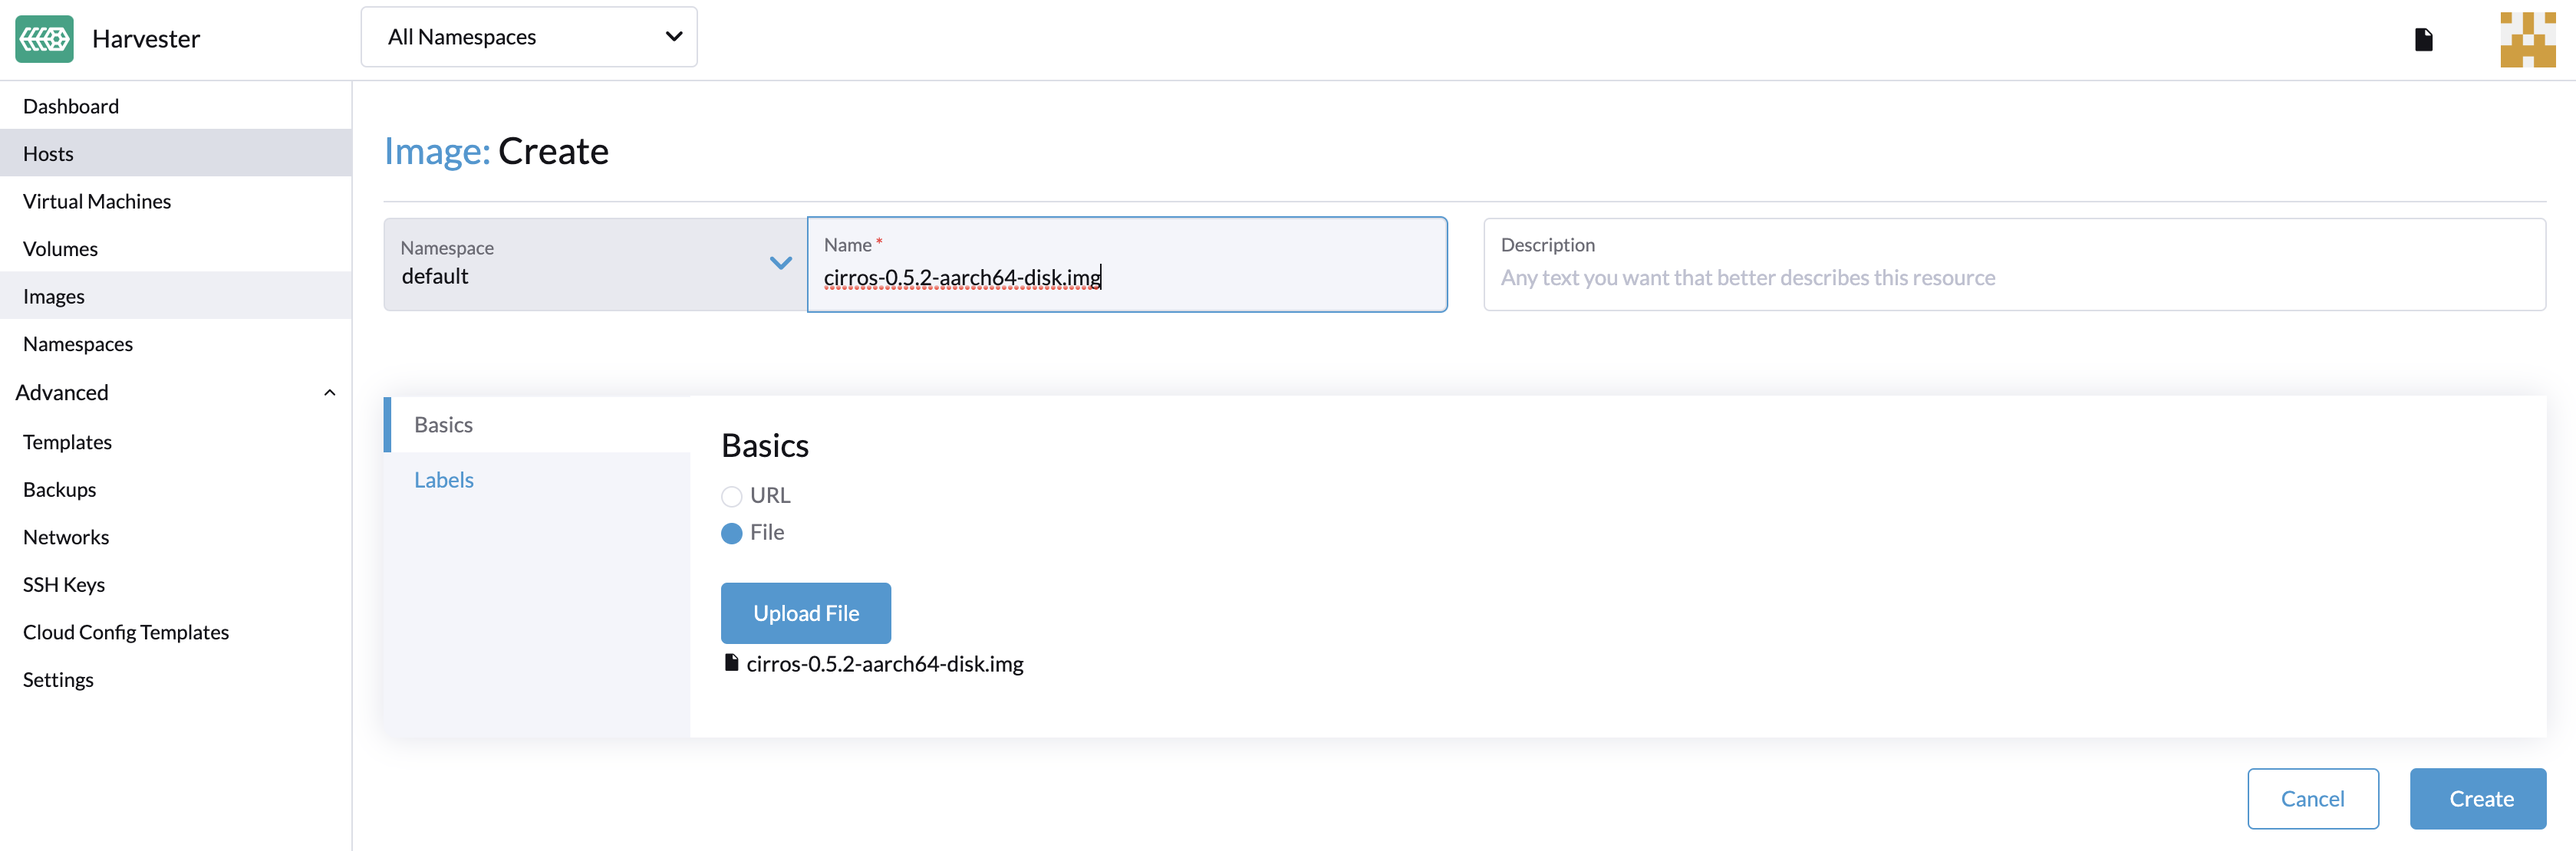
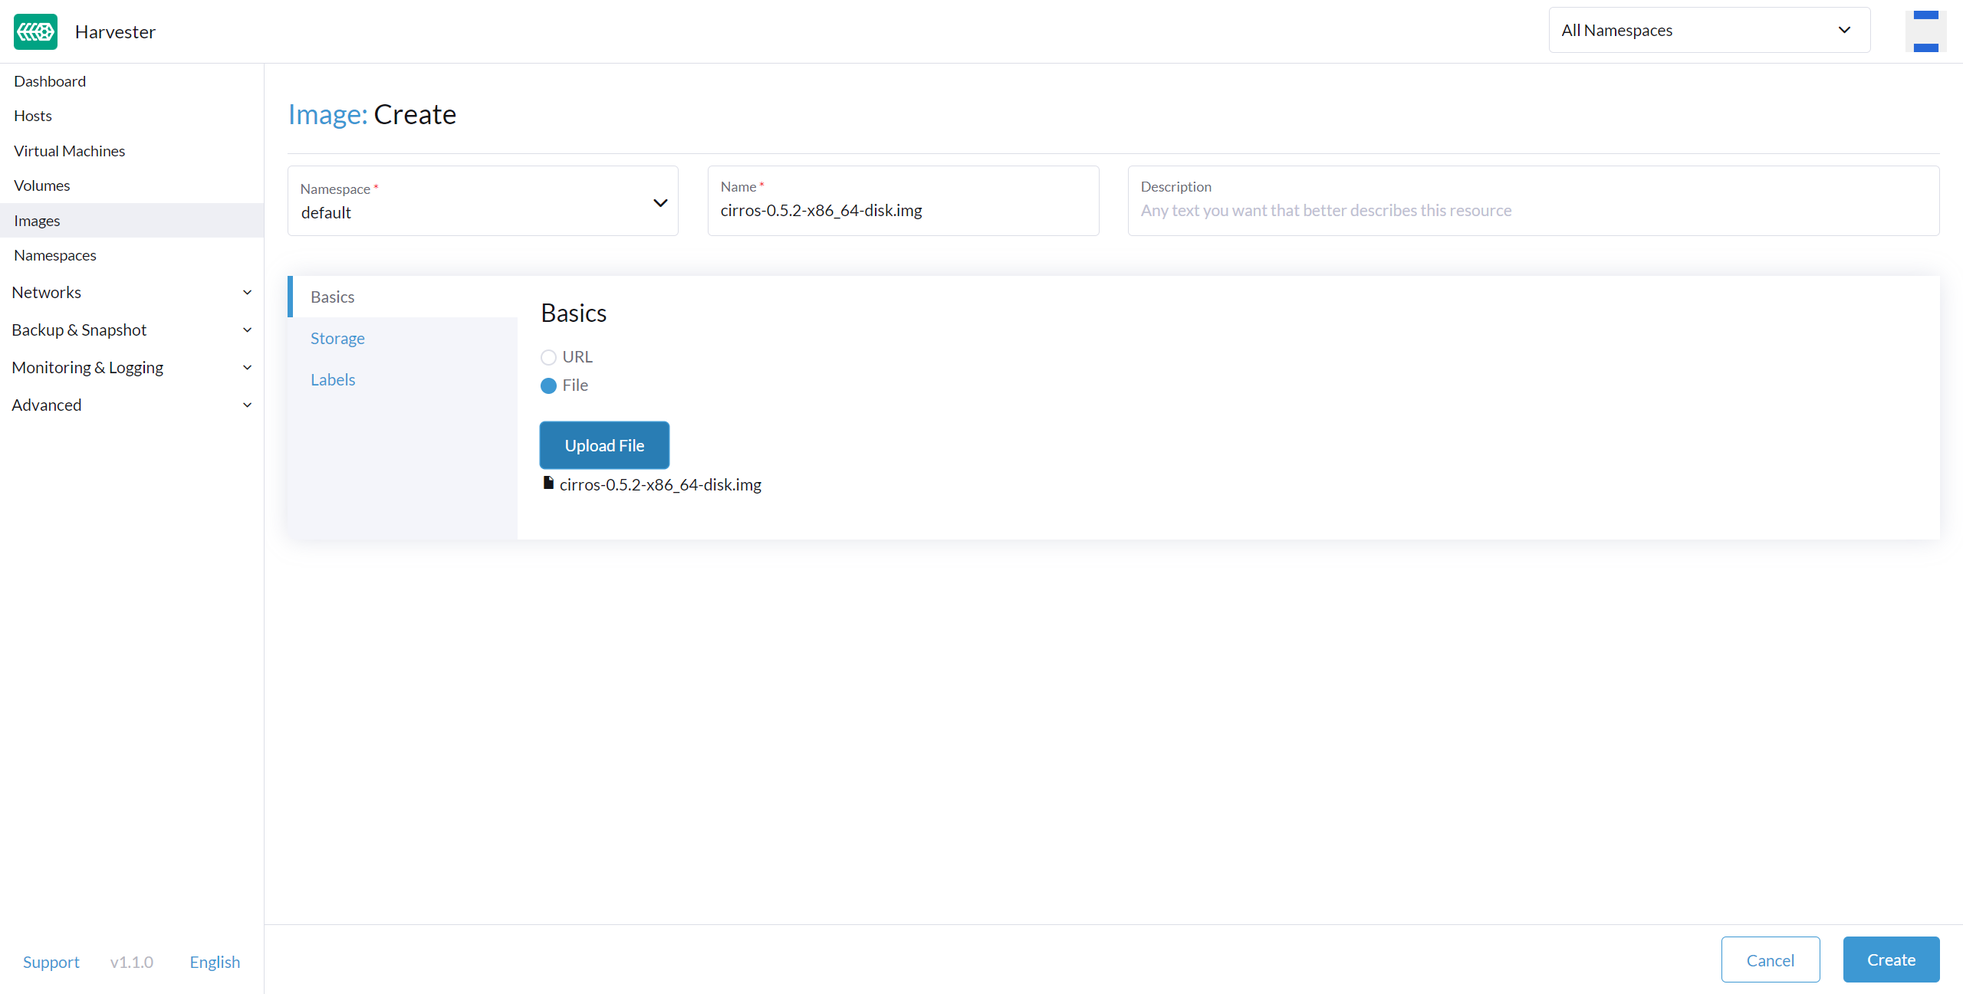
Support storage tiering

diff --git a/docs/vm/create-windows-vm.md b/docs/vm/create-windows-vm.md
@@ -58,18 +58,21 @@ The `bootOrder` values need to be set with the installation image first. If you 
 
 1. The **first volume** is an `Image Volume` with the following values: 
     1. `Name`: The value `cdrom-disk` is set by default. You can keep it or change it.
-    2. `Image`: Select the Windows image to be installed. See [Upload Images](../upload-image.md) for the full description on how to create new images.
-    3. `Type`: Select `cd-rom`.
+    2. `Type`: Select `cd-rom`.
+    3. `Image`: Select the Windows image to be installed. See [Upload Images](../upload-image.md) for the full description on how to create new images.
     4. `Size`: The value `20` is set by default. You can change it if your image has a bigger size.
     5. `Bus`: The value `SATA` is set by default. It's recommended you don't change it.
 2. The **second volume** is a `Volume` with the following values:
-    1.  `Name`: The value `rootdisk` is set by default. You can keep it or change it.
-    2.  `Size`: The value `32` is set by default. See the disk space requirements for [Windows Server](https://docs.microsoft.com/en-us/windows-server/get-started/hardware-requirements#storage-controller-and-disk-space-requirements) and [Windows 11](https://docs.microsoft.com/en-us/windows/whats-new/windows-11-requirements#hardware-requirements) before changing this value.
-    3.  `Bus`: The value `VirtIO` is set by default. You can keep it or change it to the other available options, `SATA` or `SCSI`.
+    1. `Name`: The value `rootdisk` is set by default. You can keep it or change it.
+    2. `Type`: Select `disk`.
+    3. `Storage Class`: You can use the default StorageClass `harvester-longhorn` or specify a custom one.
+    4. `Size`: The value `32` is set by default. See the disk space requirements for [Windows Server](https://docs.microsoft.com/en-us/windows-server/get-started/hardware-requirements#storage-controller-and-disk-space-requirements) and [Windows 11](https://docs.microsoft.com/en-us/windows/whats-new/windows-11-requirements#hardware-requirements) before changing this value.
+    5. `Bus`: The value `VirtIO` is set by default. You can keep it or change it to the other available options, `SATA` or `SCSI`.
 3. The **third volume** is a `Container` with the following values:
     1. `Name`: The value `virtio-container-disk` is set by default. You can keep it or change it.
-    2. `Docker Image`: The value `registry.suse.com/suse/vmdp/vmdp:2.5.3` is set by default. It's recommended you don't change it.
-    3. `Bus`: The value `SATA` is set by default. It's recommended you don't change it.
+    2. `Type`: Select `cd-rom`.
+    3. `Docker Image`: The value `registry.suse.com/suse/vmdp/vmdp:2.5.3` is set by default. It's recommended you don't change it.
+    4. `Bus`: The value `SATA` is set by default. It's recommended you don't change it.
 4. You can add additional disks using the buttons `Add Volume`, `Add Existing Volume`, `Add VM Image`, or `Add Container`.
 
 ![create-windows-vm-volumes](/img/v1.1/vm/create-windows-vm-volumes.png)
@@ -78,8 +81,8 @@ The `bootOrder` values need to be set with the installation image first. If you 
 
 1. The **Management Network** is added by default with the following values: 
     1. `Name`:  The value `default` is set by default. You can keep it or change it.
-    2. `Network`: The value `management Network` is set by default. You can't change this option if no other network has been created. See [Harvester Network](../networking/harvester-network.md) for the full description on how to create new networks.
-    3. `Model`: The value `e1000` is set by default. You can keep it or change it to the other available options from the dropdown.
+    2. `Model`: The value `e1000` is set by default. You can keep it or change it to the other available options from the dropdown.
+    3. `Network`: The value `management Network` is set by default. You can't change this option if no other network has been created. See [Harvester Network](../networking/harvester-network.md) for the full description on how to create new networks.
     4. `Type`: The value `masquerade` is set by default. You can keep it or change it to the other available option, `bridge`.
 2. You can add additional networks by clicking  `Add Network`.
 
@@ -176,11 +179,9 @@ Alternately if the system has already booted into the UEFI shell, you can type i
 
 There is a known issue with Windows VM when it is allocated more than 8GiB without enough reserve memory configured. The VM crashes without warning.
 
-This can be fixed by allocating at least 256MiB of reserved memory to the template on the Advanced Options tab.
+This can be fixed by allocating at least 256MiB of reserved memory to the template on the Advanced Options tab. If `256MiB` doesn't work, try `512MiB`.
 
 ![reserved-memory-config](/img/v1.1/vm/reserved-memory-config.png)
-
-We will add a default 256MiB of reserved memory to the Windows template to prevent this problem in the future release.
 
 ### BSoD (Blue Screen of Death) at first boot time of Windows
 

diff --git a/docs/advanced/storageclass.md b/docs/advanced/storageclass.md
@@ -1,0 +1,73 @@
+---
+sidebar_position: 1
+sidebar_label: Storage Class
+title: ""
+---
+
+# Storage Class
+
+A StorageClass allows administrators to describe the **classes** of storage they offer. Different Longhorn StorageClasses might map to replica policies, or to node schedule policies, or disk schedule policies determined by the cluster administrators. This concept is sometimes called **profiles** in other storage systems.
+
+## Creating a Storage Class
+You can create one or more StorageClasses from the **Advanced > Storage Classes** page.
+
+:::note
+
+After a StorageClass is created, nothing can be changed except `Description`.
+
+:::
+
+### Header Section
+1. **Name**: name of the StorageClass
+1. **Description** (optional): description of the StorageClass
+
+### Parameters Tab
+
+#### Number of Replicas
+
+The number of replicas created for each volume in Longhorn. Defaults to `3`.
+
+#### Stale Replica Timeout
+
+Determines when Longhorn would clean up an error replica after the replica's status is ERROR. The unit is minute. Defaults to `30` minutes in Harvester.
+
+#### Node Selector (Optional)
+
+Select the node tags to be matched in the volume scheduling stage. You can add node tags by going to **Host > Edit Config**.
+
+#### Disk Selector (Optional)
+
+Select the disk tags to be matched in the volume scheduling stage. You can add disk tags by going to **Host > Edit Config**.
+
+#### Migratable
+
+Whether [Live Migration](../vm/live-migration.md) is supported. Defaults to `Yes`.
+
+### Customize Tab
+
+#### Reclaim Policy
+
+Volumes dynamically created by a StorageClass will have the reclaim policy specified in the `reclaimPolicy` field of the class. The `Delete` mode is used by default.
+
+1. `Delete`: Deletes volumes and the underlying devices when the volume claim is deleted.
+2. `Retain`: Retains the volume for manual cleanup.
+
+#### Allow Volume Expansion
+
+Volumes can be configured to be expandable. This feature is `Enabled` by default, which allows users to resize the volume by editing the corresponding PVC object.
+
+:::note
+
+You can only use the volume expansion feature to grow a Volume, not to shrink it.
+
+:::
+
+#### Volume Binding Mode
+
+The `volumeBindingMode` field controls when volume binding and dynamic provisioning should occur. The `Immediate` mode is used by default.
+
+1. `Immediate`: Binds and provisions a persistent volume once the PersistentVolumeClaim is created.
+2. `WaitForFirstConsumer`: Binds and provisions a persistent volume once a VM using the PersistentVolumeClaim is created.
+
+
+

diff --git a/docs/host/host.md b/docs/host/host.md
@@ -55,13 +55,15 @@ Once resolved, the last step can be skipped.
 
 ![delete.png](/img/v1.1/host/delete.png)
 
-## Multi-disk Management - `Tech Preview`
+## Multi-disk Management
+
+### Add Additional Disks
 
 Users can view and add multiple disks as additional data volumes from the host detail page.
 
 1. Go to the **Hosts** page.
 2. On the node you want to modify, click **⋮ > Edit Config**.
-2. Select the **Disks** tab and click **Add Disks**.
+2. Select the **Storage** tab and click **Add Disk**.
 3. Select an additional raw block device to add as an additional data volume.
     - The `Force Formatted` option is required if the block device has never been force-formatted.
 
@@ -80,6 +82,29 @@ If you are testing Harvester in a QEMU environment, you'll need to use QEMU v6.0
 
 ![Edit Config](/img/v1.1/host/edit-config.png)
 ![Add Disks](/img/v1.1/host/add-disks.png)
+
+### Storage Tags
+
+The storage tag feature enables only certain nodes or disks to be used for storing Longhorn volume data. For example, performance-sensitive data can use only the high-performance disks which can be tagged as `fast`, `ssd` or `nvme`, or only the high-performance nodes tagged as `baremetal`.
+
+This feature supports both disks and nodes.
+
+#### Setup
+
+The tags can be set up through the Harvester UI on the host page:
+
+1. Click `Hosts` -> `Edit Config` -> `Storage`
+1. Click the `Host/Disk` tags to start typing to hit enter to add new tags.
+1. Click `Save` to update tags.
+1. On the [Storage Classes](../advanced/storageclass.md) page, create a new storage class and select those defined tags on the `Node Selector` and `Disk Selector` fields.
+
+All the existing scheduled volumes on the node or disk won’t be affected by the new tags.
+
+:::note
+
+When multiple tags are specified for a volume, the disk and the nodes (that the disk belongs to) must have all the specified tags to become usable.
+
+:::
 
 ## Ksmtuned Mode
 

diff --git a/docs/vm/create-vm.md b/docs/vm/create-vm.md
@@ -29,7 +29,7 @@ Please refer to [this page](./create-windows-vm.md) for creating Windows virtual
 1. Select the namespace of your VMs, only the `harvester-public` namespace is visible to all users.
 1. The VM Name is a required field.
 1. (Optional) VM template is optional, you can choose `iso-image`, `raw-image` or `windows-iso-image` template to speed up your VM instance creation.
-1. Configure the virtual machine's CPU and memory (see [overcommit settings](../settings/settings.md#overcommit-config) if you want to over-provision).
+1. Configure the virtual machine's CPU and memory (see [overcommit settings](../advanced/settings.md#overcommit-config) if you want to over-provision).
 1. Select SSH keys or upload new keys.
 1. Select a custom VM image on the **Volumes** tab. The default disk will be the root disk. You can add more disks to the VM.
 1. To configure networks, go to the **Networks** tab. 
@@ -49,6 +49,8 @@ A disk can be made accessible via the following types:
 |:--------|:-----------------------------------------------------------------------------------------------|
 | disk   | A disk disk will expose the volume as an ordinary disk to the VM.                              |
 | cd-rom | A cd-rom disk will expose the volume as a cd-rom drive to the VM. It is read-only by default.  |
+
+A volume's [Storage Class](../advanced/storageclass.md) can be specified when adding a new empty volume; for other volumes (such as VM images), the `Storage Class` is defined during image creation.
 
 ![create-vm](/img/v1.1/vm/create-vm-volumes.png)
 

diff --git a/docs/vm/resource-overcommit.md b/docs/vm/resource-overcommit.md
@@ -12,7 +12,7 @@ Description: Overcommit resources to a VM.
 
 # Resource Overcommit
 
-Harvester supports global configuration of resource overload percentages on CPU, memory, and storage. By setting [`overcommit-config`](../settings/settings.md#overcommit-config), this will allow scheduling of additional virtual machines even when physical resources are fully utilized.
+Harvester supports global configuration of resource overload percentages on CPU, memory, and storage. By setting [`overcommit-config`](../advanced/settings.md#overcommit-config), this will allow scheduling of additional virtual machines even when physical resources are fully utilized.
 
 Harvester allows you to overcommit CPU and RAM on compute nodes. This allows you to increase the number of instances running on your cloud at the cost of reducing the performance of the instances. The Compute service uses the following ratios by default:
 
@@ -26,7 +26,7 @@ Classic memory overcommitment or memory ballooning is not yet supported by this 
 
 :::
 
-## Configure the global setting [`overcommit-config`](../settings/settings.md#overcommit-config)
+## Configure the global setting [`overcommit-config`](../advanced/settings.md#overcommit-config)
 
 Users can modify the global `overcommit-config` by following the steps below, and it will be applied to each newly created virtual machine after the change.
 

diff --git a/docs/upload-image.md b/docs/upload-image.md
@@ -45,7 +45,21 @@ On the **Volumes** page, click **Export Image**. Enter image name to create imag
 
 ![](/img/v1.1/export-image.png)
 
-### Image labels
+### Image StorageClass
+
+When creating an image, you can select a [StorageClass](./advanced/storageclass.md) to make the storage tiering of the image volume match the parameters of the StorageClass.
+
+:::note
+
+The image volume will not actually use the StorageClass selected here, as it's just a StorageClass parameters template.
+
+In fact, the image volume will use a special StorageClass whose name has the  `longhorn-` prefix, which is automatically generated by the Harvester backend, but it will inherit the parameters from the StorageClass you select.
+
+:::
+
+![](/img/v1.1/image-storageclass.png)
+
+### Image Labels
 
 
 You can add labels to the image, which will help identify the OS type more accurately. Additionally, you can also add any custom labels when needed.

diff --git a/docs/install/harvester-configuration.md b/docs/install/harvester-configuration.md
@@ -321,7 +321,7 @@ os:
 
 This example sets the HTTP(S) proxy for **foundational OS components**.
 To set up an HTTP(S) proxy for Harvester components such as fetching external images and backup to S3 services,
-see [Settings/http-proxy](../settings/settings.md#http-proxy).
+see [Settings/http-proxy](../advanced/settings.md#http-proxy).
 
 :::
 
@@ -520,7 +520,7 @@ install:
 #### Definition
 
 You can overwrite the default Harvester system settings by configuring `system_settings`.
-See the [Settings](../settings/settings.md) page for additional information and the list of all the options.
+See the [Settings](../advanced/settings.md) page for additional information and the list of all the options.
 
 :::note
 

diff --git a/docs/troubleshooting/harvester.md b/docs/troubleshooting/harvester.md
@@ -41,7 +41,7 @@ We only support to use the embedded Longhorn UI for debugging and validation pur
 ## I can't access Harvester after I changed SSL/TLS enabled protocols and ciphers
 
 If you changed
-[SSL/TLS enabled protocols and ciphers settings](../settings/settings.md#ssl-parameters)
+[SSL/TLS enabled protocols and ciphers settings](../advanced/settings.md#ssl-parameters)
 and you no longer have access to Harvester GUI and API,
 it's highly possible that NGINX Ingress Controller has stopped working due to the misconfigured SSL/TLS protocols and ciphers.
 Follow these steps to reset the setting:

diff --git a/docs/advanced/settings.md b/docs/advanced/settings.md
@@ -1,5 +1,5 @@
 ---
-sidebar_position: 1
+sidebar_position: 2
 sidebar_label: Settings
 title: ""
 ---
